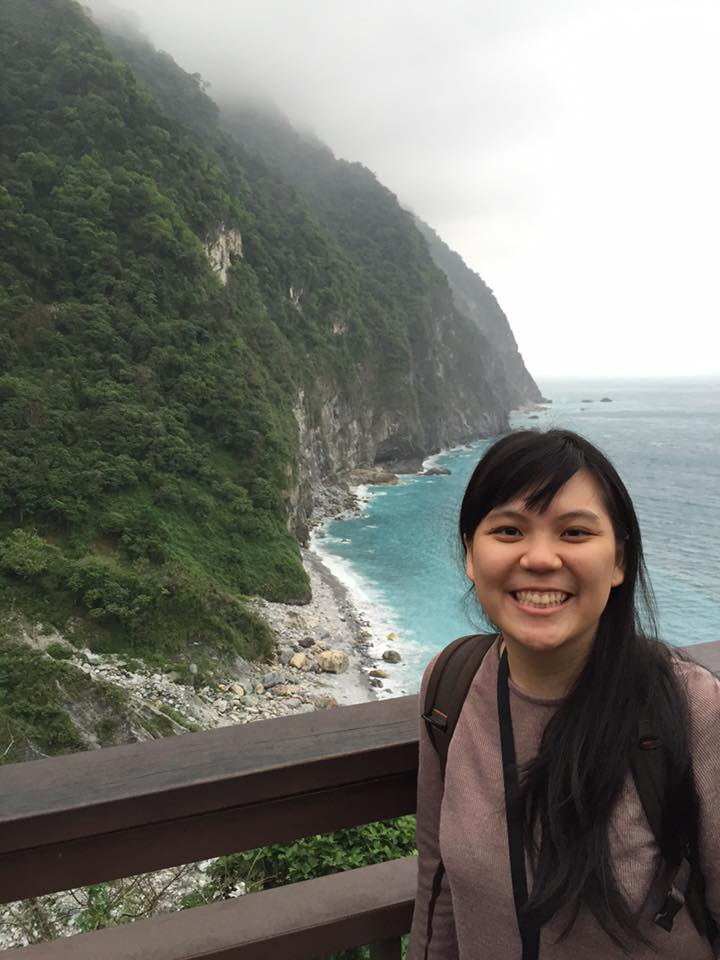
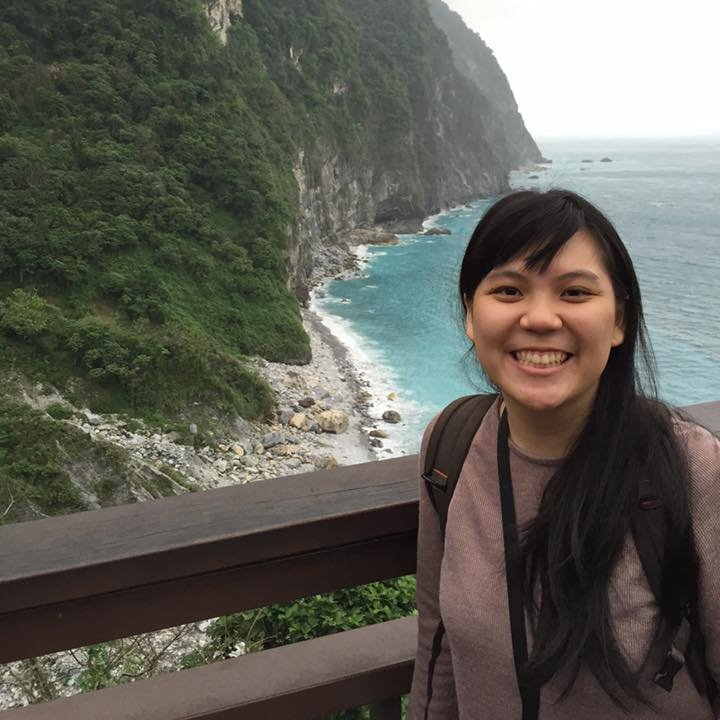
Added esther profile; resized photos

diff --git a/people.html b/people.html
@@ -100,7 +100,7 @@
 		  <img src="img/people/denis.jpg" height="140" width="140" class="pull-left" alt="" />
 		  <ul style="list-style-type:none">
 		    <li><b>Denis Bertrand (Staff Scientist)</b></li>
-		    <li>B.A. in Computer Sci. (<a href="http://www.fdsweb.univ-montp2.fr/">UM2</a>, 2002)</li>
+		    <li>M.S. in Computer Sci. (<a href="http://www.fdsweb.univ-montp2.fr/">UM2</a>, 2002)</li>
 		    <li>Ph.D. in <a href="http://www.lirmm.fr/lirmm_eng">Comp. Biol.</a> (<a href="http://www.fdsweb.univ-montp2.fr">UM2</a>, 2005; Advisor: <a href="https://research.pasteur.fr/en/member/olivier-gascuel/">Olivier Gascuel</a>)</li> 
 		    <li>Postdoctoral Fellowship in <a href="http://en.diro.umontreal.ca/home/">DIRO</a> (<a href="http://www.umontreal.ca/english/index.html">UDM</a>, Advisor: <a href="http://www.iro.umontreal.ca/~mabrouk/index-anglais.html">Nadia El-Mabrouk</a>)</li>
 		    <li>Profiles: <a href="https://scholar.google.fr/citations?hl=fr&user=s31gtXkAAAAJ&sortby=pubdate">Google Scholar</a></li>
@@ -124,7 +124,7 @@
 		<div class="col-xs-12 col-lg-6">
 		  <img src="img/people/chenhao.jpg" height="140" width="140" class="pull-left" alt="" />
 		  <li><b>Li Chenhao (Graduate Student)</b></li>
-		  <li>B.A. in Comp. Biol. (<a href="http://www.nus.edu.sg/">NUS</a>, 2014)</li>
+		  <li>B.S. (Hons.) in Comp. Biol. (<a href="http://www.nus.edu.sg/">NUS</a>, 2014)</li>
 	          <li>Ph.D. student in Dept. of Comp. Sci., NUS</li>
 		</div>
 
@@ -132,23 +132,25 @@
 		<img src="img/people/nok.jpg" height="140" width="140" class="pull-left" alt="" />
 		<ul style="list-style-type:none">
 		  <li><b>Suphavilai Chayaporn (Graduate Student)</b></li>
-		  <li>B.A. in Computer Science. (<a href="http://www.ku.ac.th/">Kasetsart University</a>, 2011)</li>
+		  <li>B.S. in Computer Science. (<a href="http://www.ku.ac.th/">Kasetsart University</a>, 2011)</li>
 		  <li>M.S. in Computer Science. (<a href="http://cs.iupui.edu/">Purdue University</a>, 2014)</li>
-		  <li>PhD student in Dept. of Comp. Sci. (<a href="http://www.comp.nus.edu.sg/">NUS</a>, 2015-present) </li>
+		  <li>Ph.D. student in Dept. of Comp. Sci. (<a href="http://www.comp.nus.edu.sg/">NUS</a>, 2015-present) </li>
 		</ul>
 		</div>
 	      </div>
 
 	      <div class="row">
 		<div class="col-xs-12 col-lg-6">
-		  <img src="img/people/scholar.jpg" height="140" width="140" class="pull-left" alt="" />
+		  <img src="img/people/amanda.jpg" height="140" width="140" class="pull-left" alt="" />
 		  <b>Ng Hui Qi Amanda (Research Officer)</b>
-		  <li>B.A. in Biological Sci. (<a href="http://www.ntu.edu.sg/Pages/home.aspx">NTU</a>, 2013)</li>
+		  <li>B.S. (Hons.) in Biological Sci. (<a href="http://www.ntu.edu.sg/Pages/home.aspx">NTU</a>, 2013)</li>
 		</div>
 
 		<div class="col-xs-12 col-lg-6">
-		  <img src="img/people/scholar.jpg" height="140" width="140" class="pull-left" alt="" />
-		  <b>Boey Jia Hui Esther (Research Officer)</b> 
+		  <img src="img/people/esther.png" height="140" width="140" class="pull-left" alt="" />
+		  <b>Boey Jia Hui Esther (Research Officer)</b>
+		  <li>B.S. in Biochemistry & Microbiology (<a href=”http://www.bsc.unimelb.edu.au”>University of Melbourne</a>, 2009)</li>
+                  <li>B.S. (Hons.) in Biochemistry & Molecular Biology (<a href=”http://www.bsc.unimelb.edu.au/biochemistry-molecular-biology”>University of Melbourne</a>, 2010)</li>
 		</div>
 	      </div>
 
